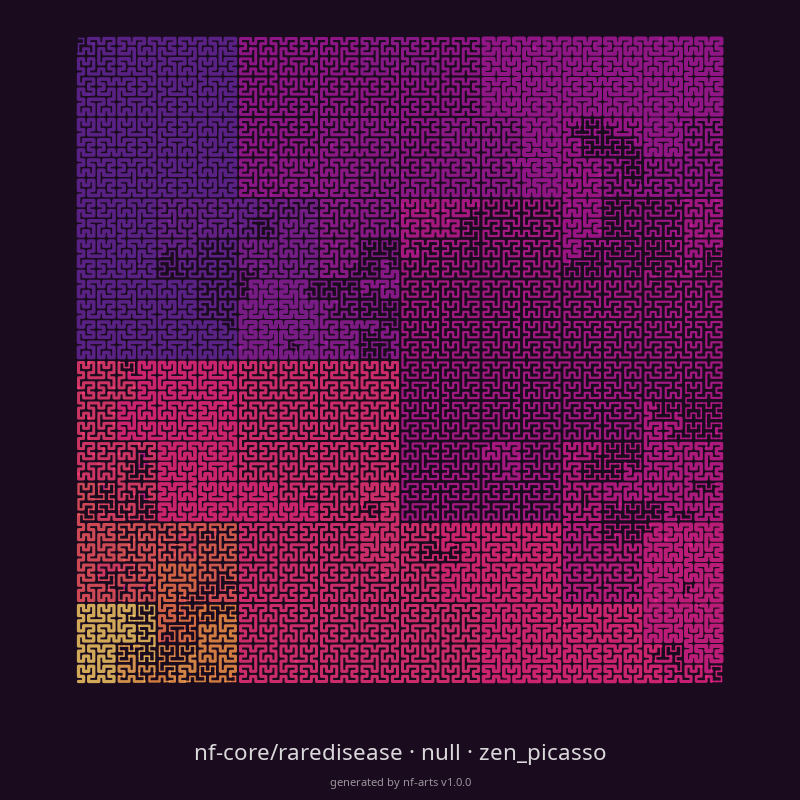
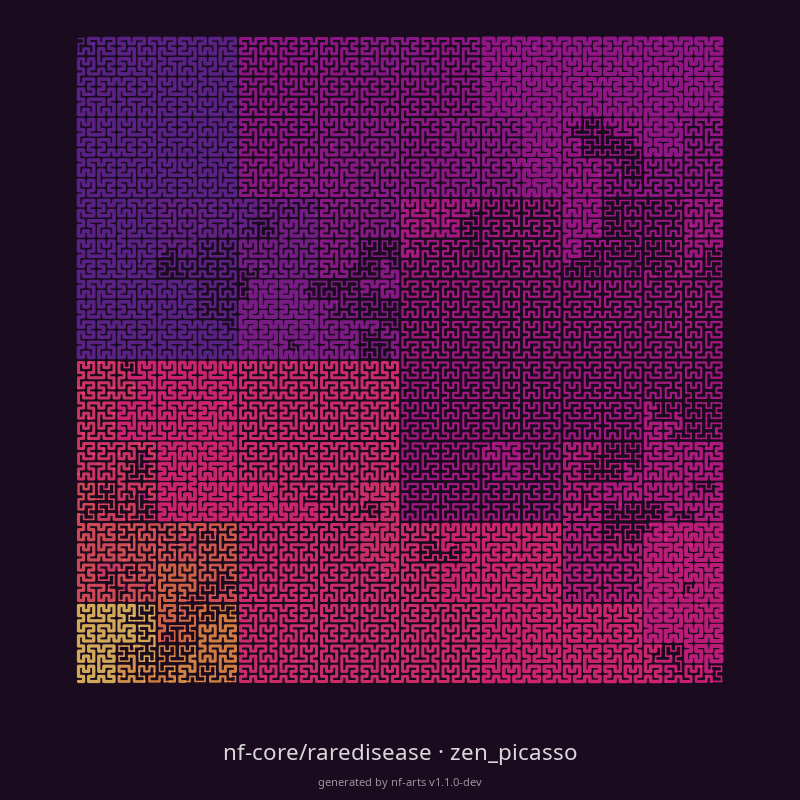
Update the raredisease, iris and butterfly doc images
Render them with the dev build, which removes null from the raredisease
captions, and render test-rnavar-iris and test-rnavar-butterfly from a new run
of the rnavar test profile.

Changed region(s): [[0.25, 0.9375, 0.75, 1.0]]

diff --git a/CHANGELOG.md b/CHANGELOG.md
@@ -21,6 +21,7 @@ Format: [Keep a Changelog](https://keepachangelog.com/en/1.1.0/). Versions: [Sem
 - [#34](https://github.com/maxulysse/nf-arts/pull/34): Tests pin the SVG of every style, so a change to an image cannot pass unnoticed.
 - [#35](https://github.com/maxulysse/nf-arts/pull/35): The caption shows the pipeline only if it looks like `org/name` or a URL, so local paths stay out of the image. `--pipeline` still sets it by hand.
 - [#36](https://github.com/maxulysse/nf-arts/pull/36): Without `file`, nf-arts writes both `art-<runName>.svg` and `art-<runName>.png`, and a failed file leaves the other one. `file` still writes one file.
+- [#39](https://github.com/maxulysse/nf-arts/pull/39): The `raredisease`, `iris` and `butterfly` images in the docs are rendered with the current `-dev` build, which removes `null` from the `raredisease` captions. `test-rnavar-iris` and `test-rnavar-butterfly` come from a new run of the rnavar test profile.
 - [#41](https://github.com/maxulysse/nf-arts/pull/41): `make images` renders the megatest images from a recorded list of traces. The rnavar test images stay as rendered with 1.0.0, as their run is gone.
 - [#42](https://github.com/maxulysse/nf-arts/pull/42): `mise` replaces `make`, with Java 21 pinned in `mise.toml`, and CI runs on Java 21 only. `prek` hooks run Nextflow lint, whitespace and end-of-file checks on commit and unit tests on push, and CI runs them.
 

diff --git a/AGENTS.md b/AGENTS.md
@@ -31,7 +31,7 @@ prek run --all-files         # the commit hooks, as in CI
 - Every PR adds a `CHANGELOG.md` line, starting with its PR number, in number order.
 - A refactor must not visibly change images. `StylesTest.SVG_HASHES` pins each style's SVG; if a hash changes, render that style before and after, compare the images by eye, and update the hash only for an intended change.
 - Images in `docs/` come from real runs only.
-- Images rendered with a `-dev` build show `-dev` in their caption. At release, regenerate them with `mise run images` and the release build. `test-rnavar-*` stay frozen at 1.0.0: their run is gone.
+- Images rendered with a `-dev` build show `-dev` in their caption. At release, regenerate them with `mise run images` and the release build. `test-rnavar-*` stay frozen: their runs are gone. `test-rnavar-iris` and `test-rnavar-butterfly` come from a later run than the others.
 - README links and images are absolute GitHub URLs: the Nextflow Registry shows the README outside the repository.
 - The art only uses the task fields listed in `docs/data.md`. Anything new that reaches the image, including caption text, must be added there first.
 - Branch protection requires the `CI pass` and `prek` jobs, so a matrix change needs no change there.

diff --git a/docs/gallery.md b/docs/gallery.md
@@ -1,6 +1,6 @@
 # Gallery
 
-Every image here comes from a real run, rendered with `render`: the nf-core/rnavar test profile from its local history with nf-arts 1.0.0, and nf-core megatests from their trace files on `s3://nf-core-awsmegatests`.
+Every image here comes from a real run, rendered with `render`: the nf-core/rnavar test profile from its local history, with nf-arts 1.0.0 and for `iris` and `butterfly` a later run, and nf-core megatests from their trace files on `s3://nf-core-awsmegatests`.
 
 ## Every style
 
